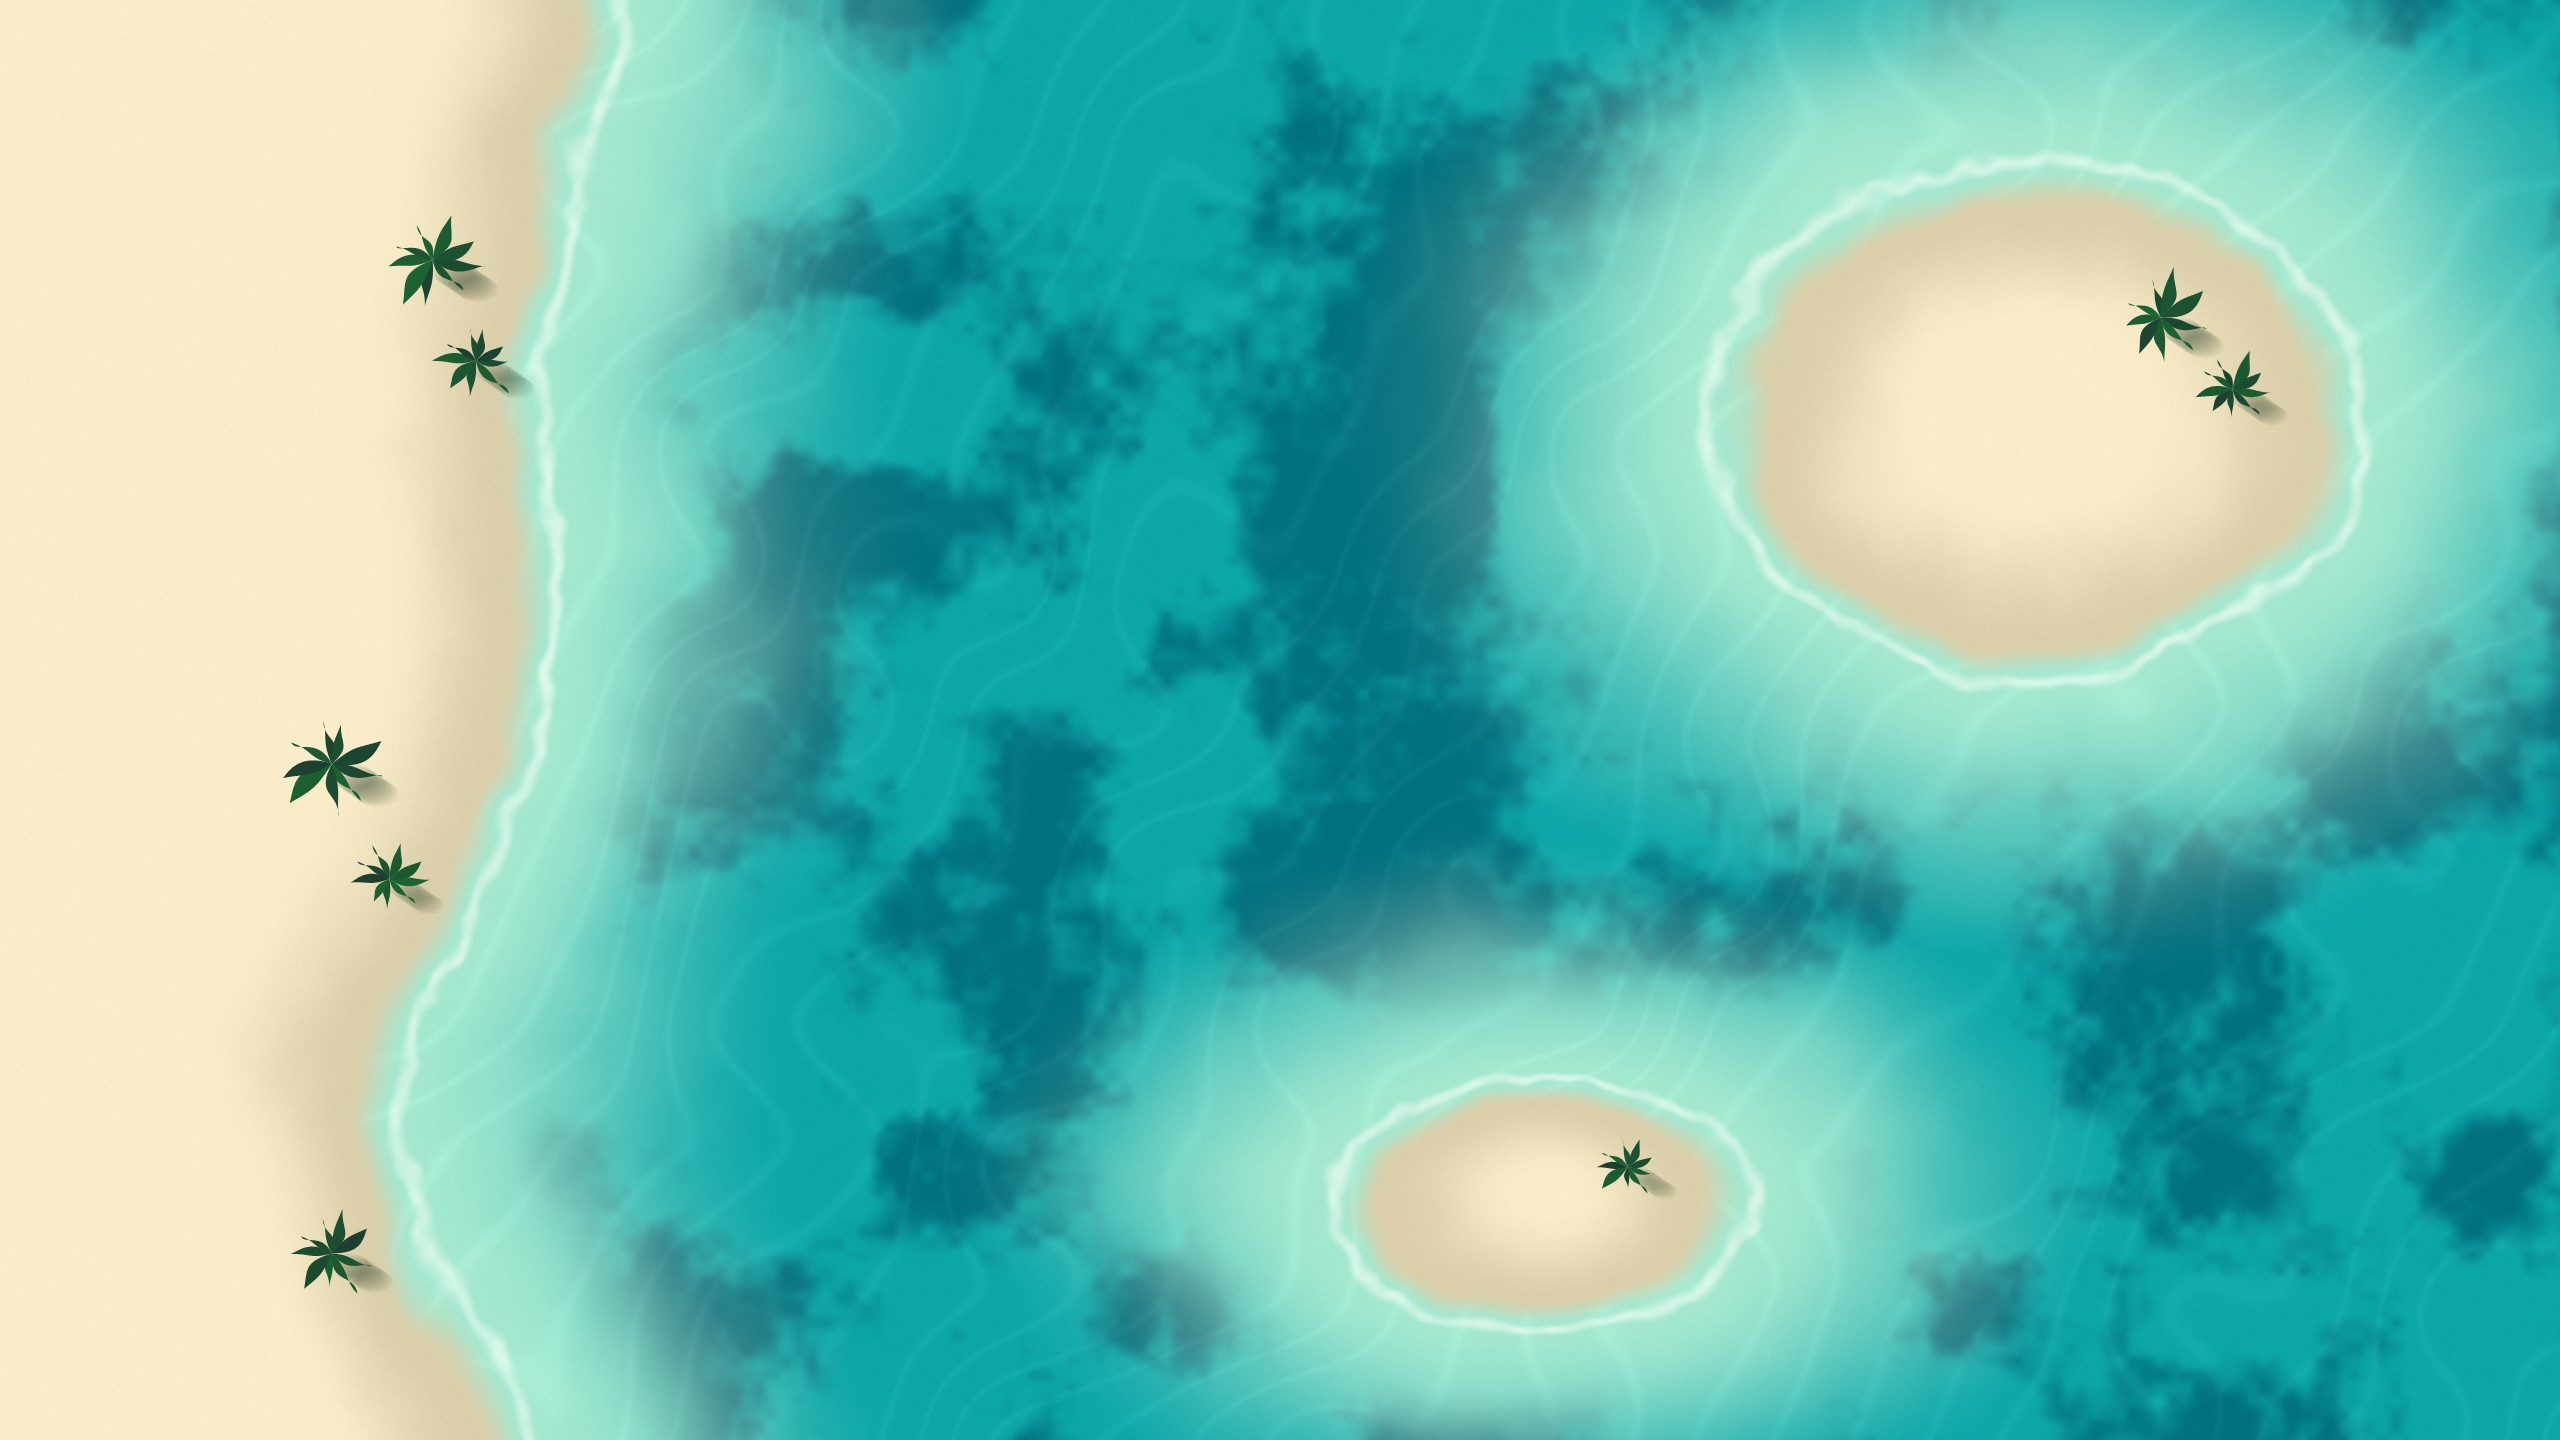
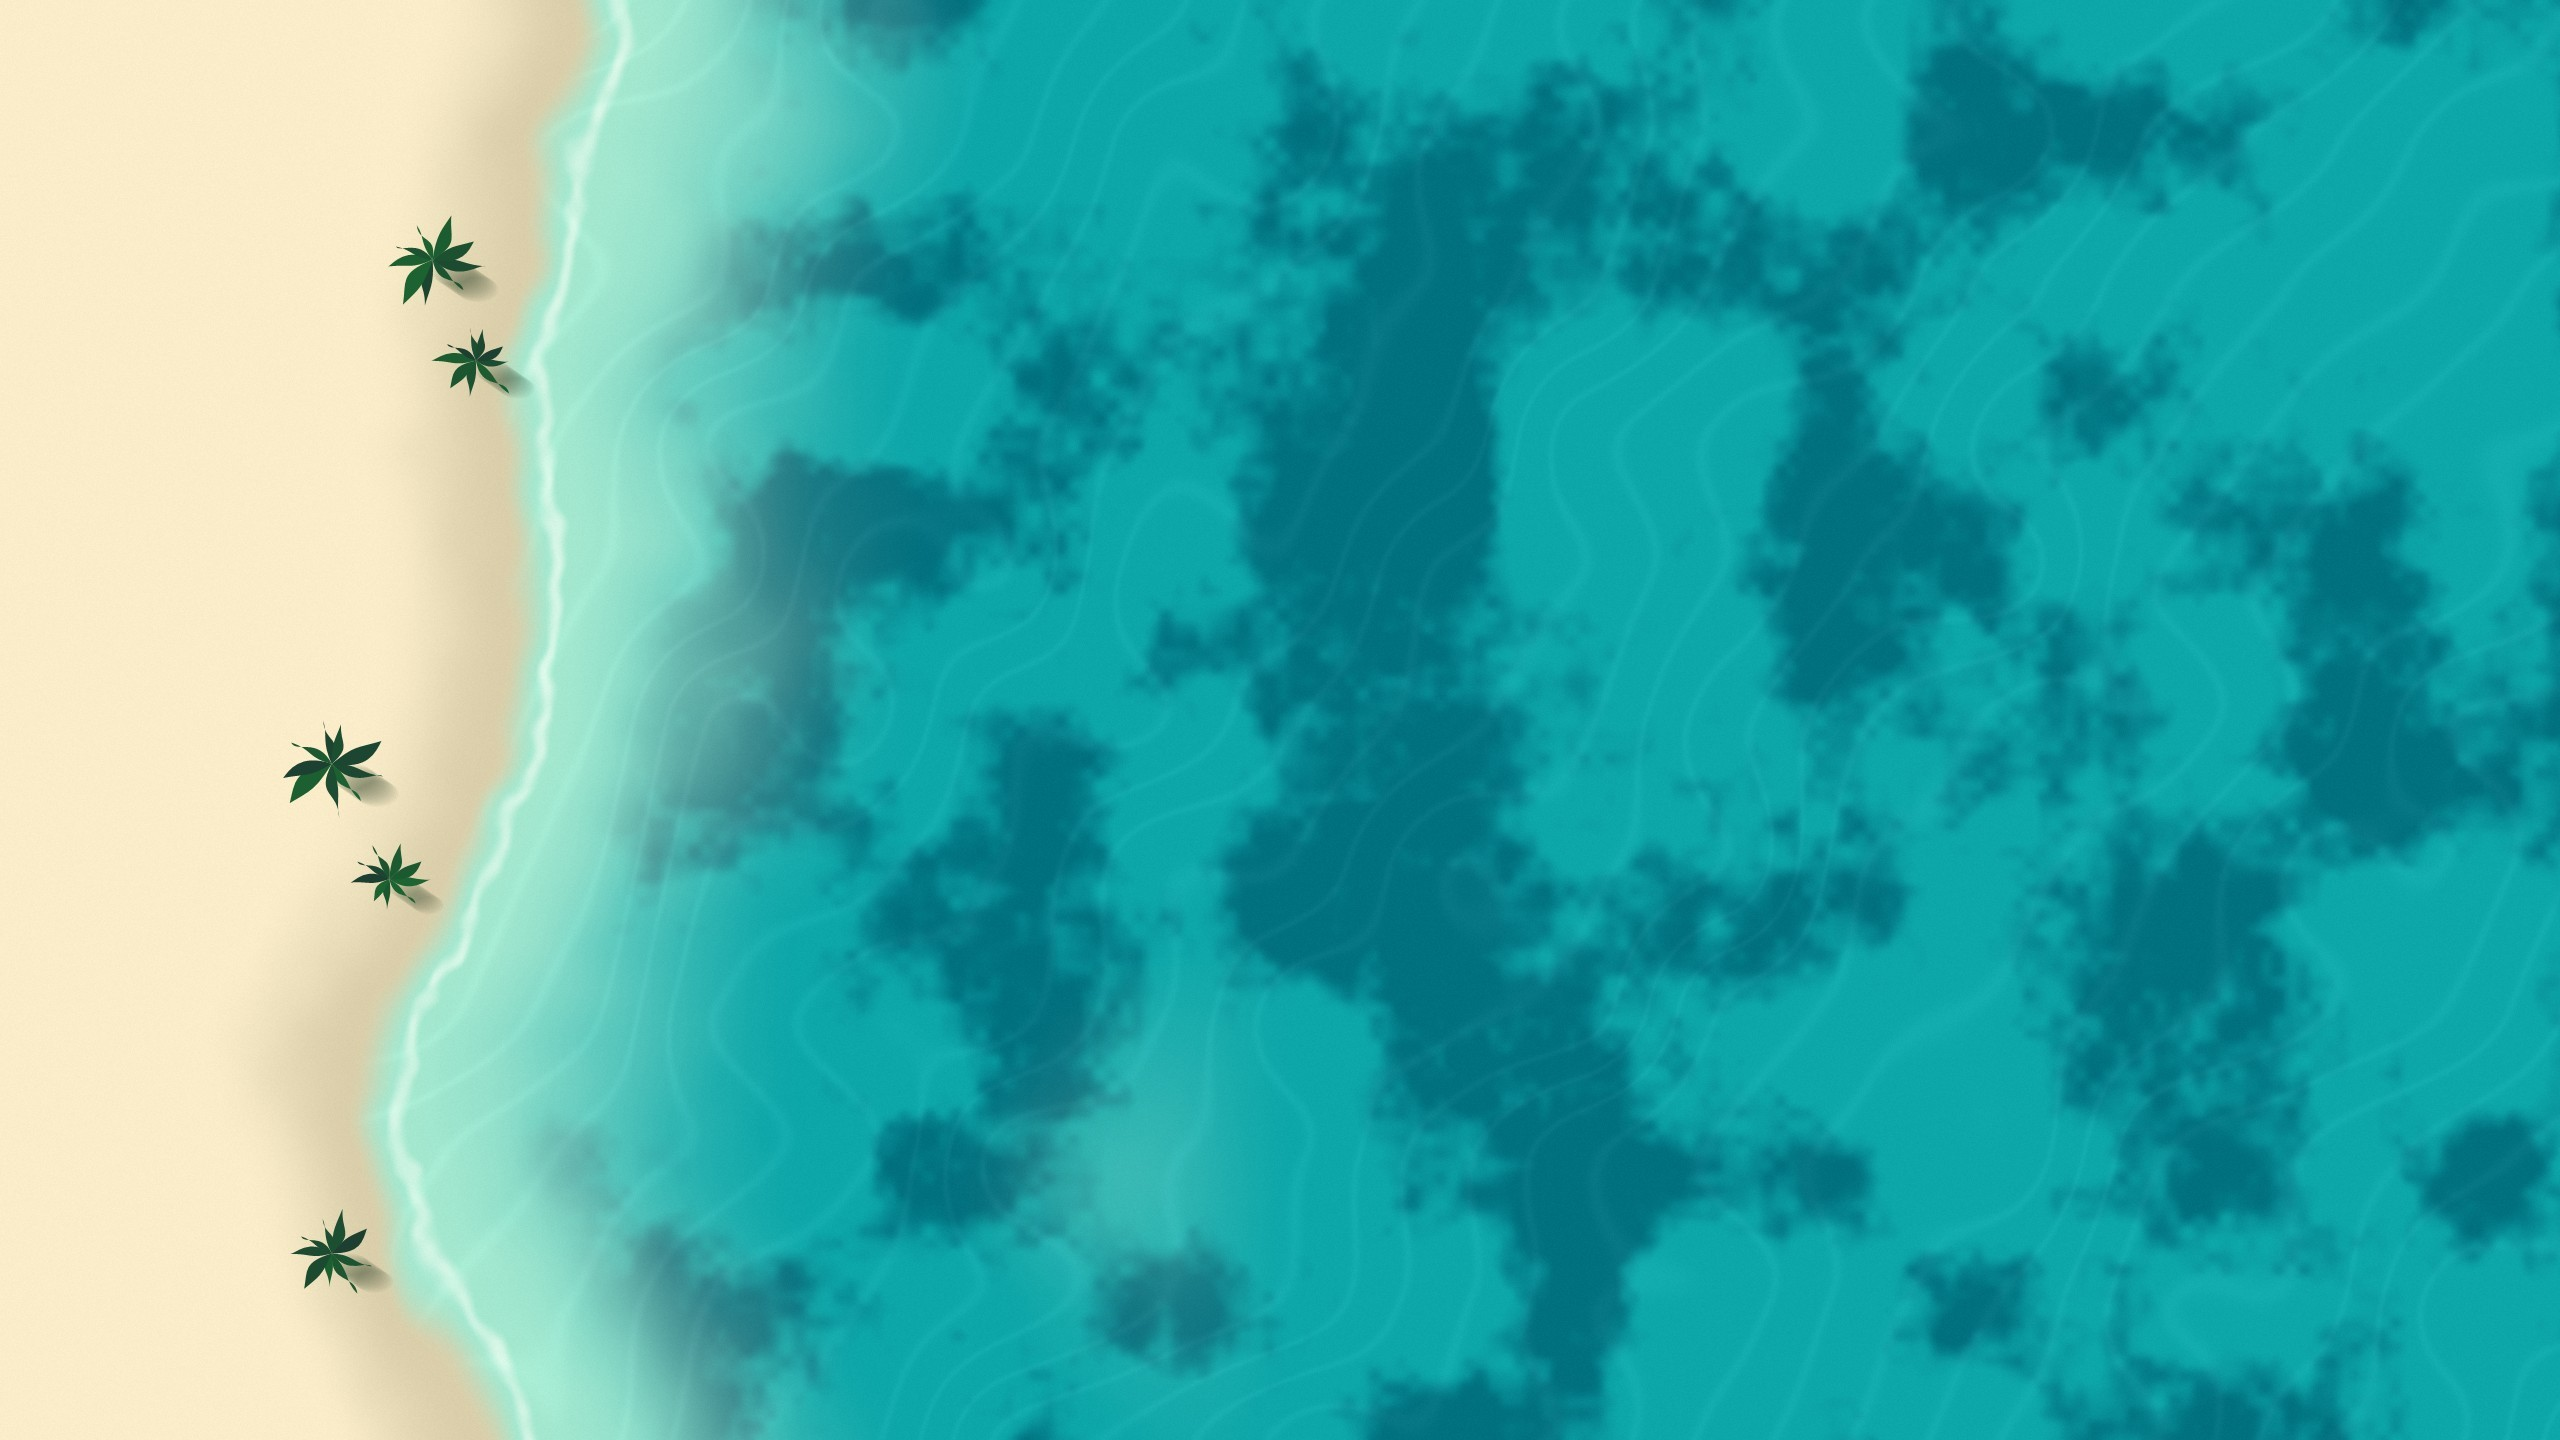
Publish adaptive Seaside theme

diff --git a/themes/seaside/README.md b/themes/seaside/README.md
@@ -1,7 +1,8 @@
 # 浅海沙洲
 
-序岛桌面 1.11.4 内置主题。壁纸为 2560 × 1440，封面为 800 × 450。
+序岛桌面 1.11.5 的动态主题。墙纸底图为 2560 × 1440，封面为 800 × 450。
 
-俯瞰浅滩、沙洲和椰树，搭配暖沙色桌面分区。壁纸是原创静态插画，构图参考 Deskland 的海岛桌面展示，未使用其代码、素材或视频帧。
+序岛桌面按屏幕上的图标位置生成沙洲。相邻图标共享沙洲，移走图标后沙洲缩小并消退。浪圈和小艇在桌面动效层中绘制，启用此效果需要序岛桌面 1.11.5。封面展示预期构图。
 
-项目参考 https://github.com/BLEZZ0102/Deskland
+绘图和动效均为原创实现，灵感来自 Deskland 的海岛桌面展示。
+https://github.com/BLEZZ0102/Deskland
